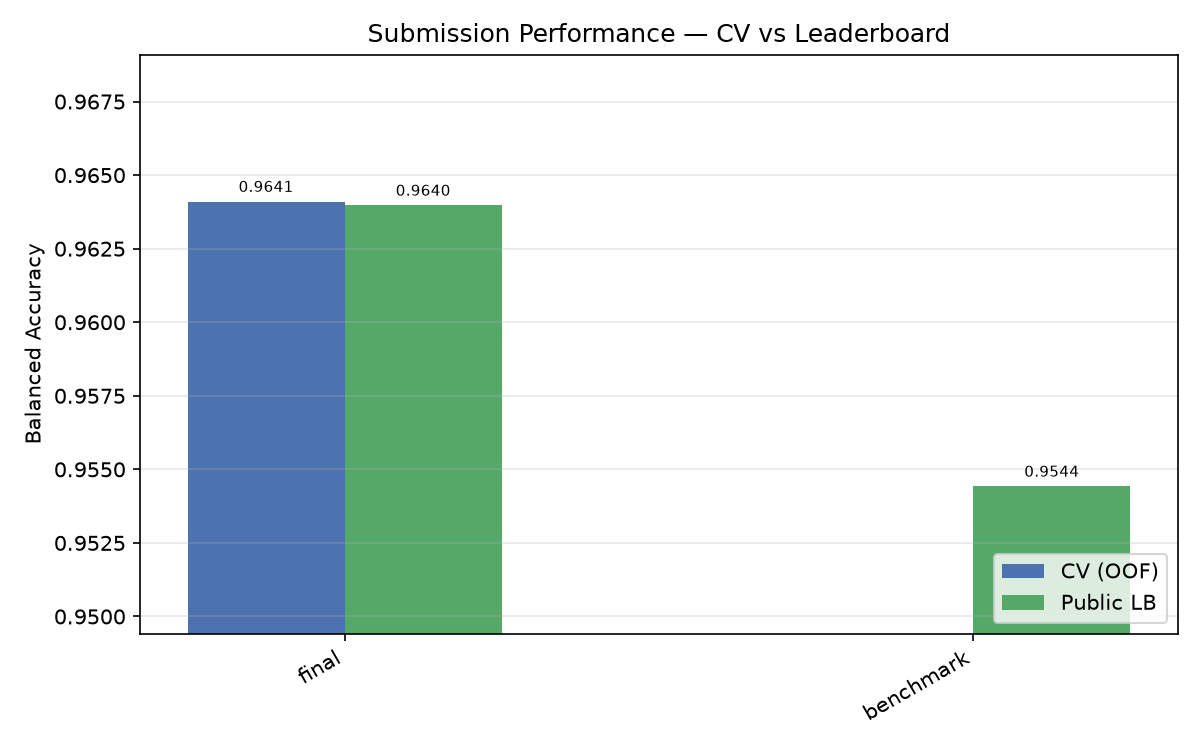
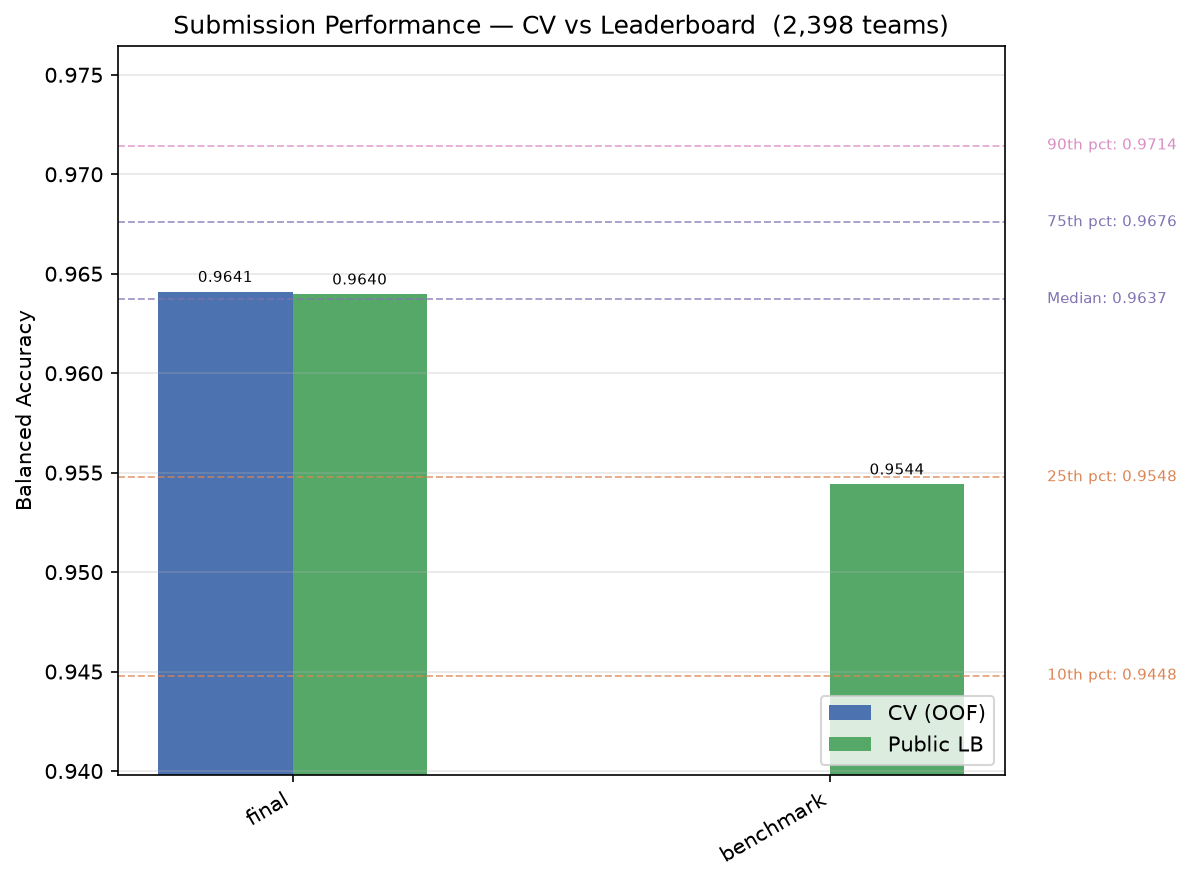
add public leaderboard

diff --git a/scripts/visualize.py b/scripts/visualize.py
@@ -112,6 +112,75 @@ def fetch_kaggle_submissions(competition: str) -> list[dict]:
     return rows
 
 
+def fetch_leaderboard_percentiles(competition: str) -> dict[str, float]:
+    """Download the full public leaderboard and compute percentile cutoffs.
+
+    Returns a dict like {"p10": 0.944, "p50": 0.964, "p75": 0.968, "n_teams": 2398}.
+    Returns an empty dict if the download fails.
+    """
+    import subprocess
+    import tempfile
+    import zipfile
+
+    token = _get_token()
+    if not token:
+        return {}
+
+    env = {**os.environ, "KAGGLE_API_TOKEN": token}
+    with tempfile.TemporaryDirectory() as tmpdir:
+        result = subprocess.run(
+            [
+                "uv",
+                "run",
+                "kaggle",
+                "competitions",
+                "leaderboard",
+                "-c",
+                competition,
+                "--download",
+                "-p",
+                tmpdir,
+                "-q",
+            ],
+            capture_output=True,
+            text=True,
+            env=env,
+            timeout=120,
+        )
+        if result.returncode != 0:
+            logger.warning("Leaderboard download failed: %s", result.stderr.strip())
+            return {}
+
+        zips = list(Path(tmpdir).glob("*.zip"))
+        if not zips:
+            logger.warning("No leaderboard zip found.")
+            return {}
+
+        with zipfile.ZipFile(zips[0]) as zf:
+            csv_name = [n for n in zf.namelist() if n.endswith(".csv")][0]
+            with zf.open(csv_name) as f:
+                reader = csv.DictReader(io.TextIOWrapper(f))
+                scores = sorted([float(r["Score"]) for r in reader], reverse=True)
+
+    if not scores:
+        return {}
+
+    n = len(scores)
+    arr = np.array(scores)
+    pct = {
+        "p10": float(np.percentile(arr, 10)),
+        "p25": float(np.percentile(arr, 25)),
+        "p50": float(np.percentile(arr, 50)),
+        "p75": float(np.percentile(arr, 75)),
+        "p90": float(np.percentile(arr, 90)),
+        "n_teams": n,
+    }
+    logger.info("  Leaderboard: %d teams", n)
+    for k in ("p10", "p25", "p50", "p75", "p90"):
+        logger.info("    %s: %.5f", k, pct[k])
+    return pct
+
+
 def _parse_score(s: str) -> float | None:
     s = s.strip()
     if not s:
@@ -224,8 +293,16 @@ def build_chart_data(
     return chart[:max_bars]
 
 
-def render_chart(chart: list[dict], output: str) -> None:
-    """Render a grouped bar chart of OOF / public / private scores."""
+def render_chart(
+    chart: list[dict],
+    output: str,
+    percentiles: dict[str, float] | None = None,
+) -> None:
+    """Render a grouped bar chart of OOF / public / private scores.
+
+    If *percentiles* is provided, draws dashed horizontal reference lines for
+    the public leaderboard percentile cutoffs.
+    """
     out = Path(output)
     out.parent.mkdir(parents=True, exist_ok=True)
 
@@ -238,7 +315,7 @@ def render_chart(chart: list[dict], output: str) -> None:
     has_public = any(r["public"] is not None for r in chart)
     has_private = any(r["private"] is not None for r in chart)
 
-    fig, ax = plt.subplots(figsize=(max(8, n * 1.5), 5))
+    fig, ax = plt.subplots(figsize=(max(8, n * 1.5), 6))
 
     bars_added = []
     offset = 0
@@ -263,13 +340,54 @@ def render_chart(chart: list[dict], output: str) -> None:
         for k in ("oof", "public", "private"):
             if r[k] is not None:
                 all_vals.append(r[k])
+    if percentiles:
+        all_vals.extend(v for k, v in percentiles.items() if k != "n_teams")
     if all_vals:
         ymin = min(all_vals) - 0.005
         ymax = max(all_vals) + 0.005
         ax.set_ylim(ymin, ymax)
 
+    pct_colors = {
+        "p10": "#DD8452",
+        "p25": "#DD8452",
+        "p50": "#8172B3",
+        "p75": "#8172B3",
+        "p90": "#DA8BC3",
+    }
+    pct_labels = {
+        "p10": "10th pct",
+        "p25": "25th pct",
+        "p50": "Median",
+        "p75": "75th pct",
+        "p90": "90th pct",
+    }
+    if percentiles:
+        x_max = n - 0.5
+        for key, val in percentiles.items():
+            if key == "n_teams":
+                continue
+            ax.axhline(
+                y=val,
+                color=pct_colors.get(key, "#999"),
+                linestyle="--",
+                linewidth=0.9,
+                alpha=0.7,
+            )
+            ax.text(
+                x_max + 0.02,
+                val,
+                f" {pct_labels.get(key, key)}: {val:.4f}",
+                va="center",
+                fontsize=7,
+                color=pct_colors.get(key, "#999"),
+            )
+        n_teams = percentiles.get("n_teams", 0)
+        title_suffix = f"  ({n_teams:,} teams)"
+    else:
+        title_suffix = ""
+
     ax.set_ylabel("Balanced Accuracy")
-    ax.set_title("Submission Performance — CV vs Leaderboard")
+    ax.set_title(f"Submission Performance — CV vs Leaderboard{title_suffix}")
     ax.set_xticks(x + width * (offset - 1) / 2)
     ax.set_xticklabels(labels, rotation=30, ha="right")
     ax.legend(loc="lower right")
@@ -290,7 +408,7 @@ def render_chart(chart: list[dict], output: str) -> None:
                 )
 
     fig.tight_layout()
-    fig.savefig(out, dpi=150)
+    fig.savefig(out, dpi=150, bbox_inches="tight")
     plt.close(fig)
     logger.info("Chart saved to %s", out)
 
@@ -303,10 +421,14 @@ def main() -> None:
     logger.info("  Found %d runs with OOF scores", len(runs))
 
     submissions = []
+    percentiles = {}
     if not args.no_kaggle:
         logger.info("Fetching Kaggle submissions ...")
         submissions = fetch_kaggle_submissions(args.competition)
         logger.info("  Found %d submissions", len(submissions))
+
+        logger.info("Fetching leaderboard percentiles ...")
+        percentiles = fetch_leaderboard_percentiles(args.competition)
 
     chart = build_chart_data(runs, submissions)
     if not chart:
@@ -314,7 +436,7 @@ def main() -> None:
         return
 
     logger.info("Rendering chart with %d bars ...", len(chart))
-    render_chart(chart, args.output)
+    render_chart(chart, args.output, percentiles=percentiles or None)
 
 
 if __name__ == "__main__":

diff --git a/README.md b/README.md
@@ -12,6 +12,16 @@ Classify SDSS astronomical objects as **GALAXY**, **STAR**, or **QSO**.
 | benchmark (v001) | 0.9526 | 0.9544 | — |
 | **final** (augment + interactions + 5-fold/1000 + threshold tuning) | **0.9641** | **0.9640** | — |
 
+**Leaderboard context** (2,398 teams on public LB):
+
+| Percentile | Score | My rank |
+|---|---|---|
+| 10th | 0.9448 | — |
+| 25th | 0.9548 | benchmark ~25th pct |
+| **50th (median)** | **0.9637** | **final ~49th pct (rank ~1,181)** |
+| 75th | 0.9676 | — |
+| 90th | 0.9714 | — |
+
 Private LB populates after the competition ends. Regenerate after new submissions:
 
 ```bash